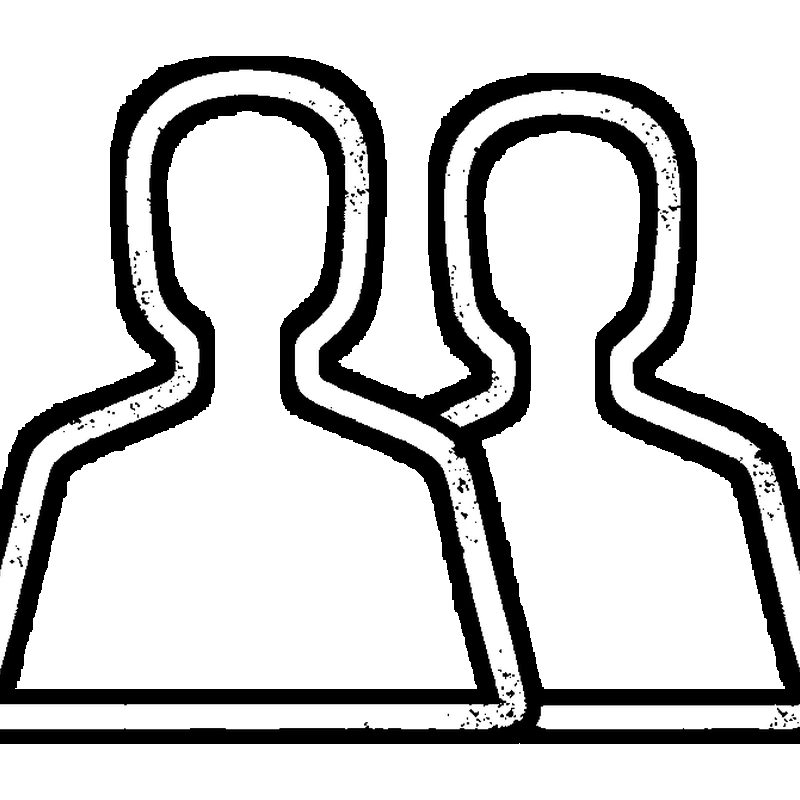
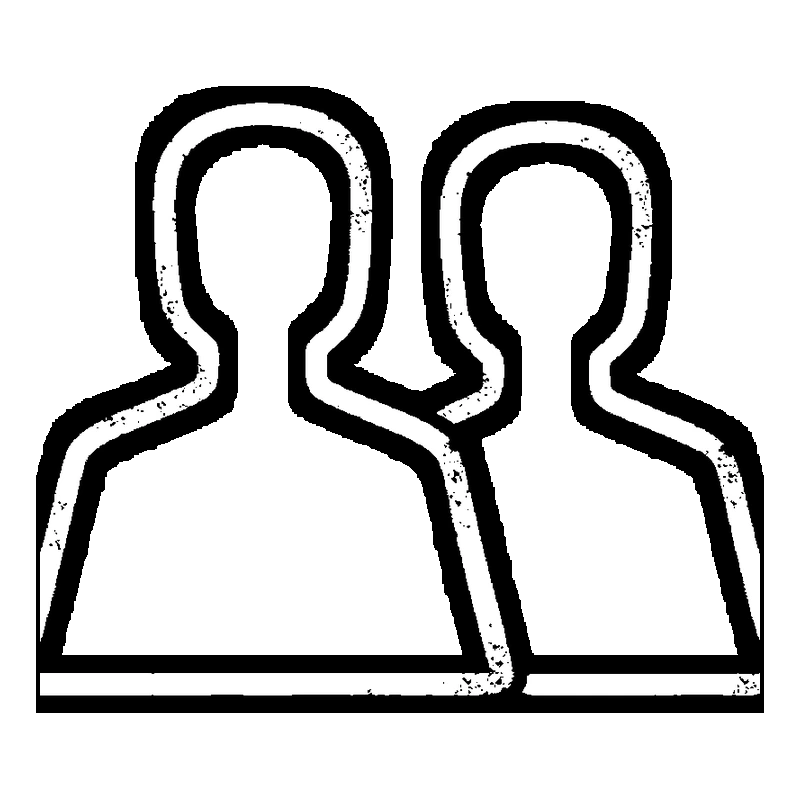
Cap Solo/Duo/Squad shared height so the wider Duo art doesn't clip

Changed region(s): [[0.0, 0.0625, 1.0, 0.9375]]

diff --git a/frontend/scripts/standardize_tile_icons.py b/frontend/scripts/standardize_tile_icons.py
@@ -71,6 +71,14 @@ WHITEN_LUMA_MIDPOINT = 128
 # content height instead.
 MATCH_HEIGHT_FILES = {"gauntlet-1-player.webp", "gauntlet-2-players.webp", "gauntlet-4-players.webp"}
 MATCH_HEIGHT_FILL = 0.85
+# The 2-player composition is proportionally wider than the other two (two
+# figures spread side by side vs. one, or four stacked closer together), so
+# pinning every icon in the group to MATCH_HEIGHT_FILL can push its width
+# past the canvas edge and clip it. Cap the shared height fill so the
+# widest file in the group always stays within this fraction of the canvas
+# width -- computed dynamically in main() from the actual art, not
+# hardcoded, so it stays correct if the source art changes.
+MATCH_HEIGHT_WIDTH_CAP = 0.90
 
 CANVAS = 800
 TARGET_COVERAGE = 0.36
@@ -133,13 +141,13 @@ def opaque_count(alpha: Image.Image) -> int:
     return sum(1 for v in alpha.getdata() if v > 10)
 
 
-def rescale_to_canvas(img: Image.Image, name: str) -> Image.Image:
+def rescale_to_canvas(img: Image.Image, name: str, match_height_fill: float) -> Image.Image:
     alpha = img.split()[-1]
     bbox = alpha.getbbox()
     content = img.crop(bbox) if bbox else img
 
     if name in MATCH_HEIGHT_FILES:
-        scale = (CANVAS * MATCH_HEIGHT_FILL) / content.height
+        scale = (CANVAS * match_height_fill) / content.height
     else:
         area = opaque_count(alpha)
         scale_by_coverage = ((TARGET_COVERAGE * CANVAS * CANVAS) / area) ** 0.5
@@ -165,20 +173,39 @@ def add_border(img: Image.Image) -> Image.Image:
     return out
 
 
-def process(path: Path) -> None:
+def prepare(path: Path) -> Image.Image:
     img = Image.open(path).convert("RGBA")
     if path.name in WHITEN_FLAT_GRAY_FILES:
         whiten_flat_gray(img)
     fill_small_enclosed_holes(img)
-    img = rescale_to_canvas(img, path.name)
+    return img
+
+
+def compute_match_height_fill(prepared: dict[str, Image.Image]) -> float:
+    fill = MATCH_HEIGHT_FILL
+    for name in MATCH_HEIGHT_FILES:
+        img = prepared[name]
+        bbox = img.split()[-1].getbbox()
+        w, h = bbox[2] - bbox[0], bbox[3] - bbox[1]
+        max_fill_for_width = MATCH_HEIGHT_WIDTH_CAP * h / w
+        fill = min(fill, max_fill_for_width)
+    return fill
+
+
+def process(path: Path, img: Image.Image, match_height_fill: float) -> None:
+    img = rescale_to_canvas(img, path.name, match_height_fill)
     img = add_border(img)
     img.save(path, format="WEBP", quality=92, method=6)
     print(f"processed {path.name}")
 
 
 def main() -> None:
-    for f in FILES:
-        process(f)
+    prepared = {f.name: prepare(f) for f in FILES}
+    match_height_fill = compute_match_height_fill(prepared)
+    print(f"match_height_fill={match_height_fill:.3f}")
+    by_name = {f.name: f for f in FILES}
+    for name, img in prepared.items():
+        process(by_name[name], img, match_height_fill)
 
 
 if __name__ == "__main__":
